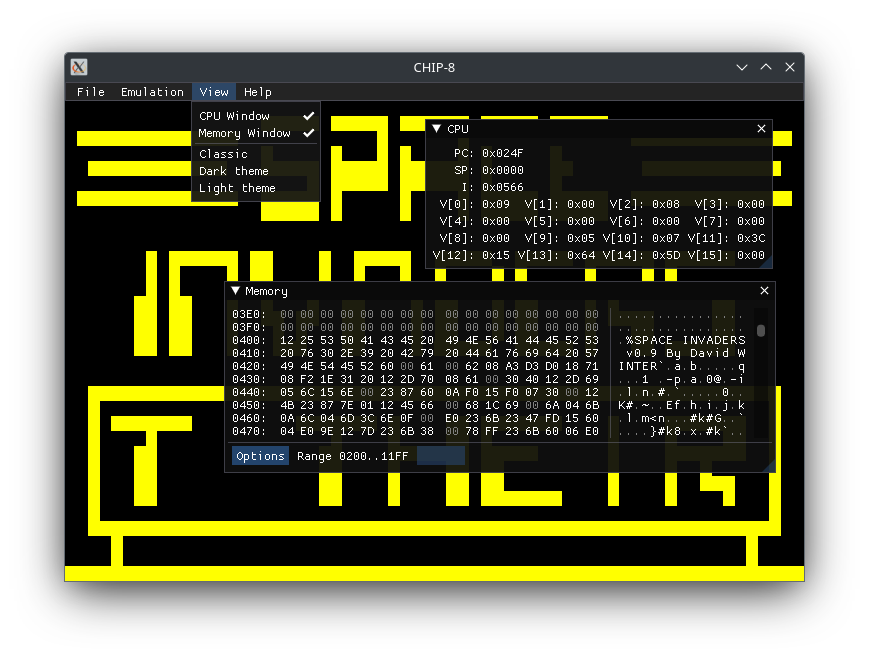
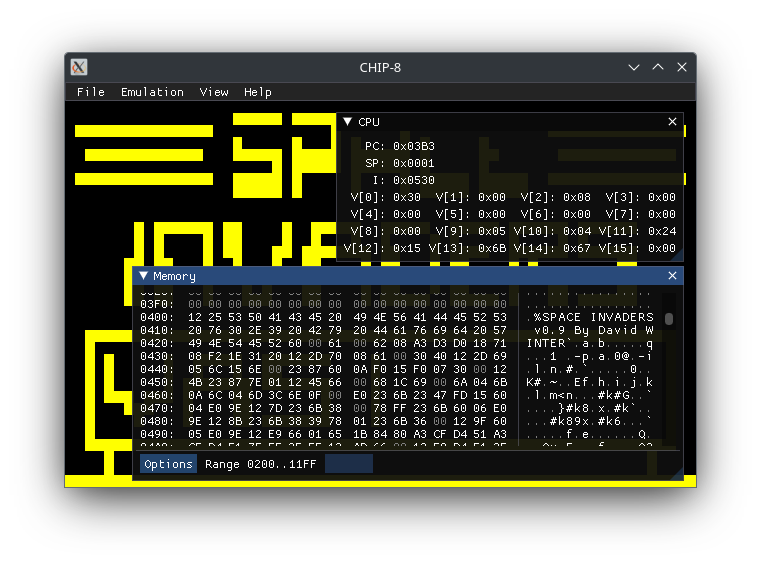
Fix memory window close bug

diff --git a/src/emulator.cpp b/src/emulator.cpp
@@ -40,6 +40,8 @@ int Emulator::m_keymap[Emulator::KeyCount] = {
 
 Emulator::~Emulator()
 {
+    delete m_memory_window;
+
     ImGui_ImplSDLRenderer2_Shutdown();
     ImGui_ImplSDL2_Shutdown();
     ImGui::DestroyContext();
@@ -125,6 +127,9 @@ bool Emulator::init()
     m_window_height = m_window_height + (int)ImGui::GetFrameHeight();
     SDL_SetWindowSize(m_window, m_window_width, m_window_height);
 
+    m_memory_window = new MemoryEditor();
+    m_memory_window->Open = false;
+
     return true;
 }
 
@@ -160,7 +165,7 @@ void Emulator::run(int argc, char* argv[])
         render();
 
         // TODO: Tick CPU for about a frame or until waiting for key press
-        std::this_thread::sleep_for(std::chrono::microseconds(125));
+        std::this_thread::sleep_for(std::chrono::microseconds(150));
     }
 }
 
@@ -264,7 +269,7 @@ void Emulator::render_user_interface()
     if (m_show_cpu_window)
         render_cpu_window();
 
-    if (m_show_memory_window)
+    if (m_memory_window->Open)
         render_memory_window();
 
     ImGui::EndFrame();
@@ -311,17 +316,21 @@ void Emulator::render_menubar()
         if (ImGui::BeginMenu("View"))
         {
             ImGui::MenuItem("CPU Window", NULL, &m_show_cpu_window);
-            ImGui::MenuItem("Memory Window", NULL, &m_show_memory_window);
+            ImGui::MenuItem("Memory Window", NULL, &m_memory_window->Open);
             ImGui::Separator();
 
-            if (ImGui::MenuItem("Classic"))
-                ImGui::StyleColorsClassic();
+            if (ImGui::BeginMenu("Theme"))
+            {
+                if (ImGui::MenuItem("Classic"))
+                    ImGui::StyleColorsClassic();
 
-            if (ImGui::MenuItem("Dark theme"))
-                ImGui::StyleColorsDark();
+                if (ImGui::MenuItem("Dark theme"))
+                    ImGui::StyleColorsDark();
 
-            if (ImGui::MenuItem("Light theme"))
-                ImGui::StyleColorsLight();
+                if (ImGui::MenuItem("Light theme"))
+                    ImGui::StyleColorsLight();
+                ImGui::EndMenu();
+            }
 
             ImGui::EndMenu();
         }
@@ -419,8 +428,7 @@ void Emulator::render_cpu_window()
 
 void Emulator::render_memory_window()
 {
-    static MemoryEditor memory_window;
-    memory_window.DrawWindow("Memory", m_memory, sizeof(m_memory), ResetVector);
+    m_memory_window->DrawWindow("Memory", m_memory, sizeof(m_memory), ResetVector);
 }
 
 void Emulator::reset()

diff --git a/src/emulator.hpp b/src/emulator.hpp
@@ -4,6 +4,8 @@
 #include <string>
 #include <SDL.h>
 
+struct MemoryEditor;
+
 class Emulator
 {
 public:
@@ -46,6 +48,8 @@ private:
     SDL_AudioSpec m_audio_spec {};
     SDL_AudioDeviceID m_audio_device = 0;
 
+    MemoryEditor *m_memory_window = nullptr;
+
     int m_window_width = 500;
     int m_window_height = 250;
     bool m_rom_loaded = false;
@@ -54,7 +58,6 @@ private:
     bool m_show_about = false;
     bool m_paused = false;
     bool m_show_cpu_window = false;
-    bool m_show_memory_window = false;
 
     Registers m_registers;
     Opcode m_opcode;

diff --git a/README.md b/README.md
@@ -1,10 +1,9 @@
 # CHIP-8
-
 CHIP-8 emulator written in C++ for the purpose of learning about emulation.
 
-![screenshot](docs/screenshot.png)
-![invaders](docs/screenshot_invaders.png)
-![dialogs](docs/screenshot_cpu_memory.png)
+![screenshot_cpu_test](docs/screenshot_cpu_test)
+![screenshot_invaders](docs/screenshot_invaders.png)
+![screenshot_cpu_memory](docs/screenshot_cpu_memory.png)
 
 ## Linux
 
